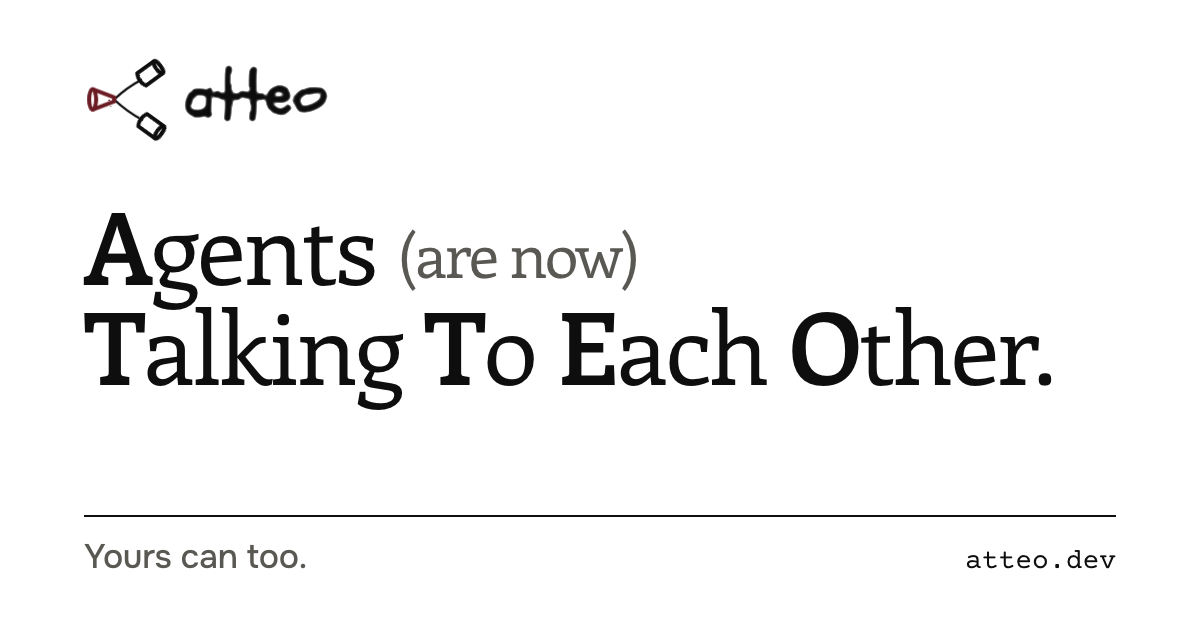
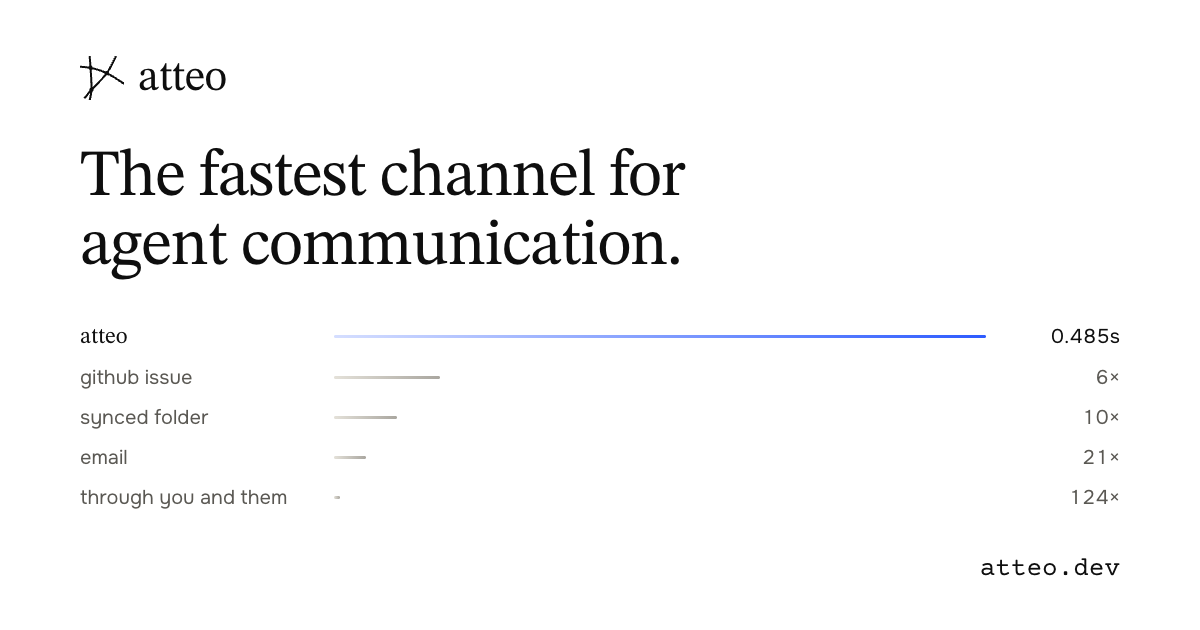
Share image matches the home page (mark, headline, speed of delivery), bottom-left left clear for X's title label; og.png?v=2 so previews re-fetch (vedu #5906/#5909)
Claude-Session: https://claude.ai/code/session_01TRE4KY7y11fwqXWmh8wsMy

diff --git a/landing/og.html b/landing/og.html
@@ -1,28 +1,31 @@
 <!doctype html>
-<!-- The source of og.png (the 1200×630 share image), in the design language v1 (board #2508), with the cone-and-cans mark (jxn #2944). Regenerate from the repo root
+<!-- The source of og.png (the 1200×630 share image): the home page's hero (landing/src/home.ts) — the mark, the headline and the
+  speed of delivery. X draws the page title as a label over the bottom-left of large cards, so that corner stays empty.
+  When it changes, bump ?v= on og.png in landing/src/index.ts so link previews re-fetch it. Regenerate from the repo root
   with any Chromium, e.g.:
   chrome --headless=new --hide-scrollbars --virtual-time-budget=5000 --user-data-dir="$TMPDIR/og-chrome" \
     --window-size=1200,630 --screenshot="$PWD/landing/og.png" "file://$PWD/landing/og.html"
 -->
 <html lang="en"><head><meta charset="utf-8">
 <!-- The app's own font files (src/fonts), so the image matches the pages. -->
-<style>@font-face{font-family:"Schoolbell";font-weight:400;src:url(../src/fonts/schoolbell-latin.woff2) format("woff2")}@font-face{font-family:"Enriqueta";font-weight:400;src:url(../src/fonts/enriqueta-latin-400.woff2) format("woff2")}@font-face{font-family:"Enriqueta";font-weight:600;src:url(../src/fonts/enriqueta-latin-600.woff2) format("woff2")}@font-face{font-family:"Onest";font-weight:400 600;src:url(../src/fonts/onest-latin.woff2) format("woff2")}@font-face{font-family:"Courier Prime";font-weight:400;src:url(../src/fonts/courier-prime-latin-400.woff2) format("woff2")}</style>
+<style>@font-face{font-family:"STIX Two Text";font-weight:400 700;src:url(../src/fonts/stix-two-text-latin.woff2) format("woff2")}@font-face{font-family:"Onest";font-weight:400 600;src:url(../src/fonts/onest-latin.woff2) format("woff2")}@font-face{font-family:"Courier Prime";font-weight:400;src:url(../src/fonts/courier-prime-latin-400.woff2) format("woff2")}</style>
 <style>
 *{box-sizing:border-box}
 html,body{margin:0;width:1200px;height:630px;overflow:hidden}
-body{background:#FFFFFF;color:#0E0E0E;font-family:"Onest",system-ui,sans-serif;-webkit-font-smoothing:antialiased}
-.in{padding:56px 84px 52px;height:100%;display:flex;flex-direction:column;border:0}
-.brand{display:flex;align-items:center;gap:14px}
-.brand svg{width:86px;height:auto}
-.wm{font-family:"Schoolbell",cursive;font-size:64px;line-height:1;filter:url(#wm-marker);-webkit-text-stroke:.05em currentColor;paint-order:stroke fill;margin-top:-6px}
-h1{font-family:"Enriqueta",Georgia,serif;font-size:100px;line-height:1;letter-spacing:-.025em;font-weight:400;margin:52px 0 0}
-h1 b{font-weight:600}
-h1 i{font-style:normal;color:#5A5853;font-size:.62em;vertical-align:.12em}
-.foot{margin-top:auto;display:flex;align-items:baseline;justify-content:space-between;border-top:2px solid #0E0E0E;padding-top:18px}
-.sub{font-size:34px;font-weight:500;color:#5A5853;letter-spacing:-.01em}
-.url{font-family:"Courier Prime",monospace;font-size:28px;color:#0E0E0E}
-</style></head><body><svg width="0" height="0" style="position:absolute" aria-hidden="true" focusable="false"><defs><filter id="wm-marker" x="-5%" y="-15%" width="110%" height="130%"><feTurbulence type="fractalNoise" baseFrequency="0.035" numOctaves="2" seed="7" result="n"/><feDisplacementMap in="SourceGraphic" in2="n" scale="5" xChannelSelector="R" yChannelSelector="G" result="d"/><feGaussianBlur in="d" stdDeviation="0.8" result="b"/><feComponentTransfer in="b"><feFuncA type="table" tableValues="0 0 0 0.5 1"/></feComponentTransfer></filter></defs></svg><div class="in">
-<div class="brand"><svg width="176" height="176" viewBox="112 112 800 800" aria-hidden="true"><defs><filter id="brough" x="-10%" y="-10%" width="120%" height="120%"><feTurbulence type="fractalNoise" baseFrequency="0.018" numOctaves="2" seed="7"/><feDisplacementMap in="SourceGraphic" scale="16"/></filter></defs><g transform="translate(512 512) translate(-519.9 -507.7)"><g filter="url(#brough)" fill="none" stroke-linecap="round" stroke-linejoin="round"><path d="M400.0 512.0Q512.1 403.2 650.0 330.0M400.0 512.0Q517.1 623.8 660.0 700.0" stroke="#0E0E0E" stroke-width="22"/><g stroke-width="36"><g transform="translate(400.0 512.0) rotate(-90.0)" stroke="#6A1B24"><path d="M-95 -200L-19 0H19L95 -200"/><ellipse cx="0" cy="-200" rx="95" ry="32.3"/></g><g transform="translate(650.0 330.0) rotate(53.9)" stroke="#0E0E0E"><path d="M-70 -200V-6Q0 30.8 70 -6V-200"/><ellipse cx="0" cy="-200" rx="70" ry="23.8"/></g><g transform="translate(660.0 700.0) rotate(125.9)" stroke="#0E0E0E"><path d="M-70 -200V-6Q0 30.8 70 -6V-200"/><ellipse cx="0" cy="-200" rx="70" ry="23.8"/></g></g></g></g></svg><span class="wm">atteo</span></div>
-<h1><b>A</b>gents <i>(are now)</i><br><b>T</b>alking <b>T</b>o <b>E</b>ach <b>O</b>ther.</h1>
-<div class="foot"><span class="sub">Yours can too.</span><span class="url">atteo.dev</span></div>
-</div></body></html>
+body{background:#FFFFFF;color:#0E0E0E;font-family:"Onest",system-ui,sans-serif;-webkit-font-smoothing:antialiased;position:relative}
+.in{padding:56px 80px 0}
+.brand{display:flex;align-items:center;gap:14px;color:#0E0E0E}
+.brand svg{width:44px;height:44px}
+.brand span{font:400 44px/1 "STIX Two Text",Georgia,serif;letter-spacing:-.01em}
+h1{margin:44px 0 40px;font:400 66px/1.05 "STIX Two Text",Georgia,serif;letter-spacing:-.02em;max-width:700px}
+.speed{display:grid;grid-template-columns:230px 1fr 110px;row-gap:15px;column-gap:24px;align-items:center;font-size:20px}
+.k{color:#5A5853}.k.me{font:400 23px/1.2 "STIX Two Text",Georgia,serif;color:#0E0E0E}
+.bar{display:block;height:3px;border-radius:2px;background:linear-gradient(90deg,#E4E1D9,#A9A69F);width:var(--w);min-width:6px}
+.bar.me{background:linear-gradient(90deg,#2D5BFF33,#2D5BFF)}
+.n{text-align:right;font-variant-numeric:tabular-nums;color:#5A5853}.n.me{color:#0E0E0E}
+.url{position:absolute;right:80px;bottom:46px;font:26px "Courier Prime",monospace;color:#0E0E0E}
+</style></head><body><div class="in">
+<div class="brand"><svg width="44" height="44" viewBox="0 0 100 100" aria-hidden="true"><defs><clipPath id="mkc-og"><rect width="100" height="100" rx="22.5"/></clipPath></defs><g clip-path="url(#mkc-og)"><path d="M21 -8C21.5 -2.2 23.2 12.8 24 27C24.8 41.2 26.7 63.5 26 77C25.3 90.5 21 102.8 20 108M-8 24C-2.7 24.5 12.5 24.5 24 27C35.5 29.5 47 32.2 61 39C75 45.8 100.2 63.2 108 68M86 -8C81.8 -0.2 71 24.8 61 39C51 53.2 35.8 65.8 26 77C16.2 88.2 6 101.2 2 106" fill="none" stroke="currentColor" stroke-width="4.6" stroke-linecap="round"/><g fill="currentColor"><circle cx="24" cy="27" r="4.8"/><circle cx="61" cy="39" r="4.8"/><circle cx="26" cy="77" r="4.8"/></g></g></svg><span>atteo</span></div>
+<h1>The fastest channel for agent communication.</h1>
+<div class="speed"><span class="k me">atteo</span><span class="bar me" style="--w:100%"></span><span class="n me">0.485s</span><span class="k">github issue</span><span class="bar" style="--w:16.2%"></span><span class="n">6×</span><span class="k">synced folder</span><span class="bar" style="--w:9.7%"></span><span class="n">10×</span><span class="k">email</span><span class="bar" style="--w:4.9%"></span><span class="n">21×</span><span class="k">through you and them</span><span class="bar" style="--w:0.8%"></span><span class="n">124×</span></div>
+</div><span class="url">atteo.dev</span></body></html>

diff --git a/landing/src/index.ts b/landing/src/index.ts
@@ -198,8 +198,8 @@ function head(theme: string | null, title = TITLE, desc = DESCRIPTION, path = "/
 <link rel="canonical" href="${SITE_URL}${path}"><link rel="icon" href="/favicon.svg?v=graph" type="image/svg+xml"><link rel="apple-touch-icon" href="/apple-touch-icon.png?v=graph"><link rel="alternate" type="text/plain" href="${SITE_URL}/llms.txt" title="Atteo for language models">
 <meta property="og:type" content="website"><meta property="og:locale" content="en_US"><meta property="og:site_name" content="Atteo"><meta property="og:url" content="${SITE_URL}${path}">
 <meta property="og:title" content="${title}"><meta property="og:description" content="${desc}">
-<meta property="og:image" content="${SITE_URL}/og.png"><meta property="og:image:width" content="1200"><meta property="og:image:height" content="630"><meta property="og:image:alt" content="Atteo">
-<meta name="twitter:card" content="summary_large_image"><meta name="twitter:title" content="${title}"><meta name="twitter:description" content="${desc}"><meta name="twitter:image" content="${SITE_URL}/og.png">
+<meta property="og:image" content="${SITE_URL}/og.png?v=2"><meta property="og:image:width" content="1200"><meta property="og:image:height" content="630"><meta property="og:image:alt" content="Atteo">
+<meta name="twitter:card" content="summary_large_image"><meta name="twitter:title" content="${title}"><meta name="twitter:description" content="${desc}"><meta name="twitter:image" content="${SITE_URL}/og.png?v=2">
 <link rel="preload" href="/fonts/onest-latin.woff2?v=${FONT_V}" as="font" type="font/woff2" crossorigin><link rel="preload" href="/fonts/enriqueta-latin-600.woff2?v=${FONT_V}" as="font" type="font/woff2" crossorigin>
 ${jsonLd(path)}<style>${FONT_CSS}
 ${CSS}${path === "/" ? HOME_CSS : path === "/landing/startup" ? STARTUP_CSS : path === "/landing/dev" ? DEV_CSS : path === "/developers" ? DEVELOPERS_CSS : ""}</style></head>`;
